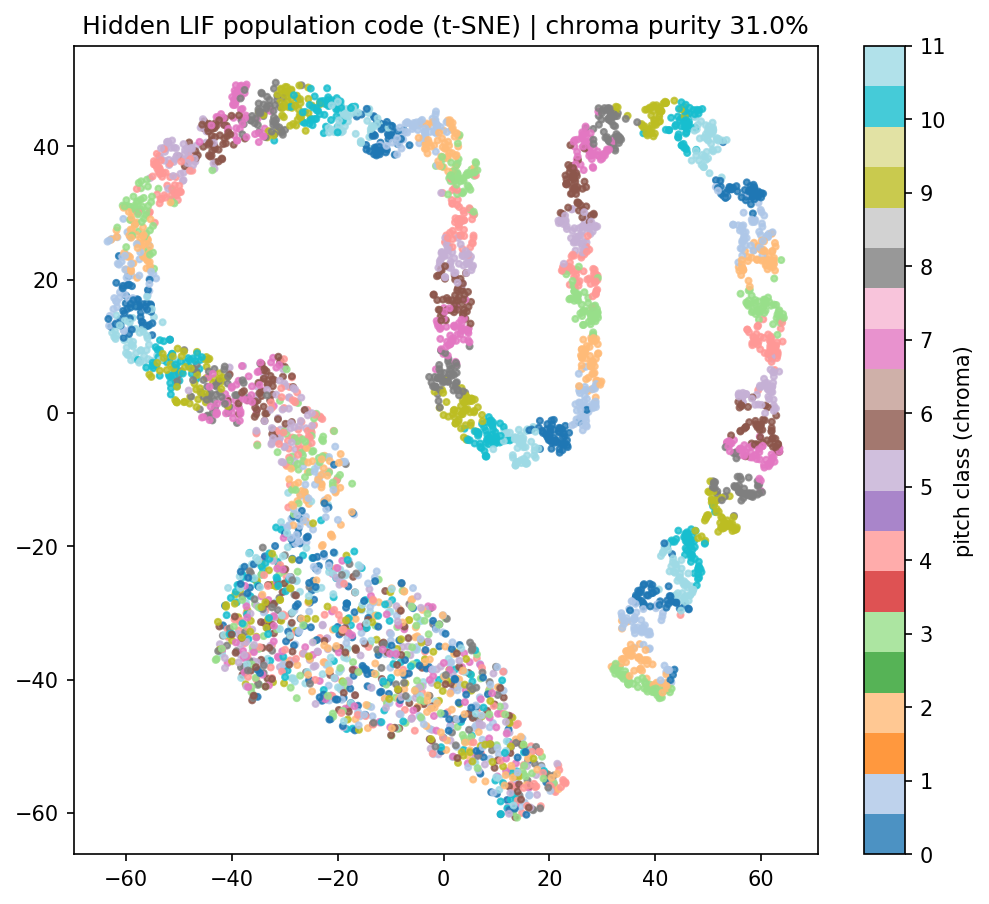
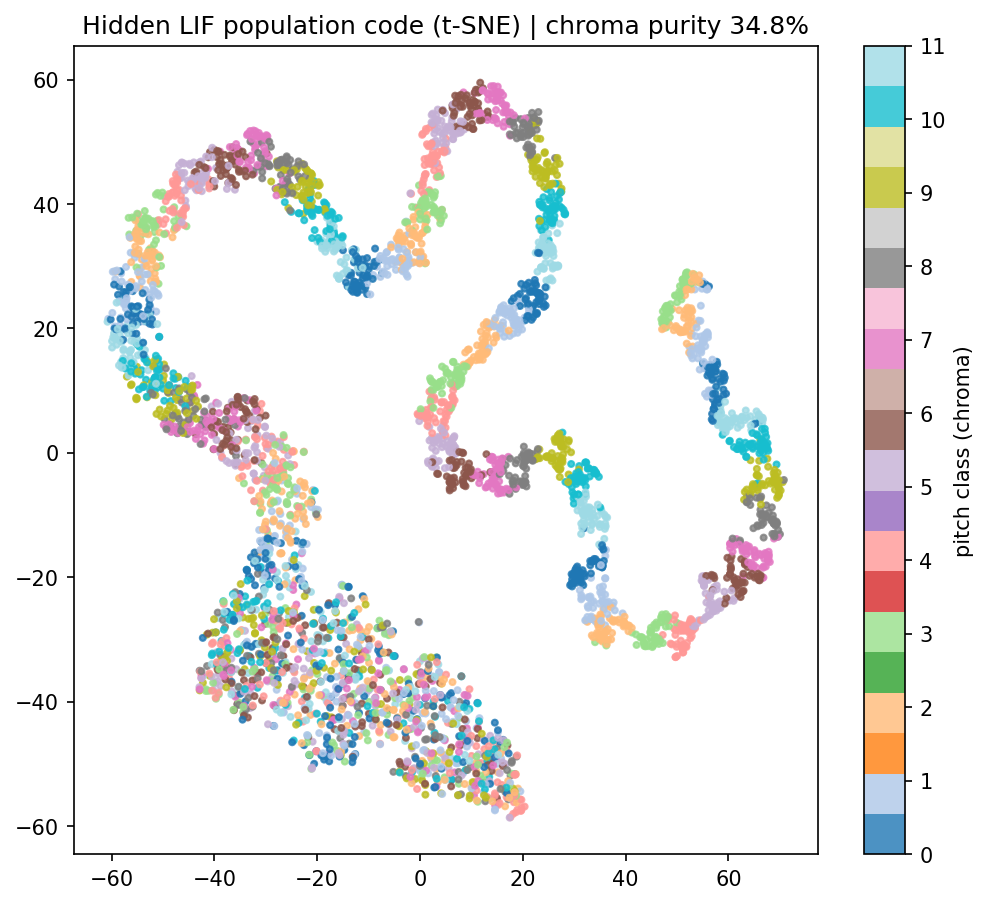
Absolute-pitch experiments on both front-ends; spikify comparison TODO done
- Add suite runner (--version both --exp suite) with metrics JSON and
  handy-vs-spikify comparison figures in data/plots
- Results: 20-unit chroma+register code reconstructs 88 notes at ~44%
  (both front-ends); no zero-shot octave transfer (both); spikify faster
  on the trained octave, handy hidden code more chroma-organized
  (purity 35 vs 16)
- Fix per-register eval indexing bug that produced phantom transfer
- Document results in docs/ABSOLUTE_PITCH.md and README; mark the
  spikify-comparison TODO item done

diff --git a/experiments/absolute_pitch.py b/experiments/absolute_pitch.py
@@ -20,17 +20,23 @@ Experiments implemented:
                        reconstruct the precise note and report 88-way accuracy.
   4. probe             Record hidden-layer spike activity and quantify how well
                        the representation is organised by chroma (t-SNE 2-D).
+  5. suite             Run all four experiments for one front-end (returns metrics).
+  6. suite + both      Run the suite on handy AND spikify, save a results JSON and
+                       handy-vs-spikify comparison figures to data/plots.
 
 Run (examples):
   uv run python experiments/absolute_pitch.py --version handy --exp chroma_full --epochs 20
   uv run python experiments/absolute_pitch.py --version handy --exp chroma_transfer --epochs 20
   uv run python experiments/absolute_pitch.py --version handy --exp chroma_register --epochs 20 --epochs2 20
   uv run python experiments/absolute_pitch.py --version handy --exp probe --limit 400
+  # full front-end comparison (all 4 exps x handy/spikify + figures):
+  uv run python experiments/absolute_pitch.py --version both --exp suite --epochs 20
   # quick sanity check:
   uv run python experiments/absolute_pitch.py --smoke
 """
 
 import argparse
+import json
 import sys
 from pathlib import Path
 
@@ -158,9 +164,9 @@ def per_register_accuracy(model, X, labels, note_idx, device):
     model.eval()
     out = {}
     with torch.no_grad():
-        for reg_i in sorted(set((note_idx // 12).tolist())):
-            mask = (note_idx // 12) == reg_i
-            sub = note_idx[mask.nonzero(as_tuple=True)[0]]
+        regs = note_idx // 12
+        for reg_i in sorted(set(regs.tolist())):
+            sub = torch.nonzero(regs == reg_i).flatten()  # sample positions, not note ids
             if len(sub) == 0:
                 continue
             acc = test_accuracy(model, DataLoader(TensorDataset(X[sub], labels[sub]), batch_size=64, shuffle=False), device)
@@ -183,6 +189,7 @@ def exp_chroma_full(version, epochs, lr, batch_size, limit, device):
     test_acc = train_model(model, train_loader, test_loader, epochs, lr, device)
     print(f"[chroma_full] 12 chroma units, all 88 notes -> test chroma acc = {test_acc:.2f}% "
           f"(chance 8.3%%)")
+    return test_acc
 
 
 # ---------------------------------------------------------------------------
@@ -207,9 +214,10 @@ def exp_chroma_transfer(version, epochs, lr, batch_size, limit, device, train_re
 
     # Octave-equivalence probe: all notes, per register
     print("  octave-equivalence transfer (chroma accuracy per register):")
-    for reg_i, acc in per_register_accuracy(model, X, chroma, y, device).items():
+    per_reg = per_register_accuracy(model, X, chroma, y, device)
+    for reg_i, acc in per_reg.items():
         print(f"    register {reg_i} (notes A{reg_i}..G#{reg_i}): {acc:.2f}%")
-    return model
+    return test_acc, per_reg
 
 
 # ---------------------------------------------------------------------------
@@ -248,6 +256,7 @@ def exp_chroma_register(version, epochs_chroma, epochs_reg, lr, batch_size, limi
     note_acc = 100.0 * correct / seen
     print(f"[chroma_register] chroma={chroma_acc:.2f}%  register={reg_acc:.2f}%  "
           f"reconstructed 88-note acc = {note_acc:.2f}% (chance 1.1%%)")
+    return chroma_acc, reg_acc, note_acc
 
 
 # ---------------------------------------------------------------------------
@@ -299,14 +308,155 @@ def exp_probe(version, epochs, lr, batch_size, limit, device, save_fig=True):
         fig.savefig(out_path, dpi=150, bbox_inches="tight")
         plt.close(fig)
         print(f"[probe] t-SNE saved to {out_path}")
+    return purity
+
+
+# ---------------------------------------------------------------------------
+# Suite: all four experiments for one front-end, metrics collected
+# ---------------------------------------------------------------------------
+CHANCE = {
+    "chroma_full": 100.0 / 12,
+    "transfer_heldout": 100.0 / 12,
+    "chroma_head": 100.0 / 12,
+    "register_head": 100.0 / 8,
+    "recon_note": 100.0 / 88,
+    "probe_purity": 100.0 / 12,
+}
+
+
+def run_suite(version, epochs, epochs2, lr, batch_size, limit, device):
+    """Run all four absolute-pitch experiments for one front-end; return metrics."""
+    metrics = {}
+    metrics["chroma_full"] = exp_chroma_full(version, epochs, lr, batch_size, limit, device)
+    heldout, per_reg = exp_chroma_transfer(version, epochs, lr, batch_size, limit, device)
+    metrics["transfer_heldout"] = heldout
+    metrics["transfer_per_register"] = {int(k): float(v) for k, v in per_reg.items()}
+    c_acc, r_acc, n_acc = exp_chroma_register(
+        version, epochs, epochs2, lr, batch_size, limit, device)
+    metrics["chroma_head"] = c_acc
+    metrics["register_head"] = r_acc
+    metrics["recon_note"] = n_acc
+    metrics["probe_purity"] = float(exp_probe(version, epochs, lr, batch_size, limit, device))
+    return metrics
+
+
+def plot_transfer_comparison(allres, train_register=3, save_name="absolute_pitch_transfer_both.png"):
+    """Per-register octave-equivalence transfer curves, handy vs spikify."""
+    fig, ax = plt.subplots(figsize=(9, 5.5))
+    regs = list(range(8))
+    for version, color, marker in (("handy", "tab:blue", "o"), ("spikify", "tab:orange", "s")):
+        per_reg = allres.get(version, {}).get("transfer_per_register", {})
+        if not per_reg:
+            continue
+        vals = [per_reg.get(str(r), per_reg.get(r, float("nan"))) for r in regs]
+        ax.plot(regs, vals, marker=marker, lw=2, color=color, label=f"{version}")
+    ax.axvline(train_register, color="grey", ls=":", lw=1.5, label="trained octave (reg 3)")
+    ax.axhline(CHANCE["transfer_heldout"], color="red", ls="--", lw=1.2, label="chance 8.3%")
+    ax.set_xticks(regs)
+    ax.set_xlabel("piano register (0 = A0..G#0 ... 7 = A7..C8)")
+    ax.set_ylabel("chroma accuracy (%)")
+    ax.set_title("Octave-equivalence transfer: chroma head trained on register 3 only")
+    ax.legend()
+    ax.grid(True, ls=":", alpha=0.6)
+    fig.tight_layout()
+    PLOT_DIR.mkdir(parents=True, exist_ok=True)
+    out = PLOT_DIR / save_name
+    fig.savefig(out, dpi=150, bbox_inches="tight")
+    plt.close(fig)
+    print(f"[suite] transfer comparison saved to {out}")
+
+
+def plot_summary_bars(allres, save_name="absolute_pitch_summary_both.png"):
+    """Grouped handy-vs-spikify bars for the headline metrics, with chance lines."""
+    keys = ["chroma_full", "transfer_heldout", "register_head", "recon_note", "probe_purity"]
+    labels = ["chroma\n(full, %)", "chroma\n(transf., %)", "register\nhead (%)",
+              "recon.\nnote (%)", "hidden\npurity (%)"]
+    versions = [v for v in ("handy", "spikify") if v in allres]
+    colors = {"handy": "tab:blue", "spikify": "tab:orange"}
+    x = np.arange(len(keys))
+    width = 0.35
+    fig, ax = plt.subplots(figsize=(10, 5.5))
+    for i, v in enumerate(versions):
+        vals = []
+        for k in keys:
+            val = allres[v].get(k, float("nan"))
+            vals.append(0.0 if val is None or (isinstance(val, float) and np.isnan(val)) else val)
+        ax.bar(x + (i - (len(versions) - 1) / 2) * width, vals, width,
+               color=colors[v], label=v)
+    for j, k in enumerate(keys):
+        ax.hlines(CHANCE[k], x[j] - width, x[j] + width, colors="red",
+                  linestyles="dashed", linewidths=1.2)
+    ax.set_xticks(x)
+    ax.set_xticklabels(labels)
+    ax.set_ylabel("accuracy (%)")
+    ax.set_title("Absolute-pitch experiments: handy vs spikify (red dashes = chance)")
+    ax.legend()
+    ax.grid(True, axis="y", ls=":", alpha=0.6)
+    fig.tight_layout()
+    PLOT_DIR.mkdir(parents=True, exist_ok=True)
+    out = PLOT_DIR / save_name
+    fig.savefig(out, dpi=150, bbox_inches="tight")
+    plt.close(fig)
+    print(f"[suite] summary bars saved to {out}")
+
+
+def make_combined_tsne(versions=("handy", "spikify"),
+                       save_name="tsne_chroma_both.png"):
+    """Side-by-side panel of the per-front-end chroma t-SNE figures."""
+    import matplotlib.image as mpimg
+    paths = [PLOT_DIR / f"tsne_chroma_probe_{v}.png" for v in versions]
+    if not all(p.exists() for p in paths):
+        print("[suite] combined t-SNE skipped (per-version figures missing)")
+        return
+    fig, axes = plt.subplots(1, len(paths), figsize=(6 * len(paths), 5.5))
+    if len(paths) == 1:
+        axes = [axes]
+    for ax, p, v in zip(axes, paths, versions):
+        ax.imshow(mpimg.imread(p))
+        ax.axis("off")
+        ax.set_title(f"{v} front-end")
+    fig.suptitle("Hidden LIF population code colored by pitch class (chroma)")
+    fig.tight_layout()
+    out = PLOT_DIR / save_name
+    fig.savefig(out, dpi=150, bbox_inches="tight")
+    plt.close(fig)
+    print(f"[suite] combined t-SNE saved to {out}")
+
+
+def run_comparison(epochs, epochs2, lr, batch_size, limit, device, seed):
+    """Run the suite on handy AND spikify; save JSON + comparison figures."""
+    allres = {}
+    for version in ("handy", "spikify"):
+        torch.manual_seed(seed)
+        np.random.seed(seed)
+        print(f"\n===== suite: {version} =====")
+        allres[version] = run_suite(version, epochs, epochs2, lr, batch_size, limit, device)
+
+    out_json = ROOT / "data" / "absolute_pitch_results.json"
+    out_json.parent.mkdir(parents=True, exist_ok=True)
+    with open(out_json, "w") as f:
+        json.dump(allres, f, indent=2)
+    print(f"\n[suite] metrics saved to {out_json}")
+
+    plot_transfer_comparison(allres)
+    plot_summary_bars(allres)
+    make_combined_tsne()
+
+    print("\n===== handy vs spikify =====")
+    for k in ["chroma_full", "transfer_heldout", "chroma_head",
+              "register_head", "recon_note", "probe_purity"]:
+        h = allres["handy"].get(k, float("nan"))
+        s = allres["spikify"].get(k, float("nan"))
+        print(f"  {k:18s} handy={h:6.2f}%  spikify={s:6.2f}%  (chance {CHANCE[k]:.1f}%)")
+    return allres
 
 
 # ---------------------------------------------------------------------------
 def main():
     p = argparse.ArgumentParser(description="Absolute-pitch (chroma/register) experiments")
-    p.add_argument("--version", default="handy", choices=["handy", "spikify"])
+    p.add_argument("--version", default="handy", choices=["handy", "spikify", "both"])
     p.add_argument("--exp", default="chroma_full",
-                   choices=["chroma_full", "chroma_transfer", "chroma_register", "probe"])
+                   choices=["chroma_full", "chroma_transfer", "chroma_register", "probe", "suite"])
     p.add_argument("--epochs", type=int, default=20)
     p.add_argument("--epochs2", type=int, default=20, help="register-head epochs (chroma_register)")
     p.add_argument("--lr", type=float, default=2e-4)
@@ -314,6 +464,7 @@ def main():
     p.add_argument("--limit", type=int, default=None,
                    help="cap number of samples (for quick smoke runs)")
     p.add_argument("--device", default=str(DEVICE))
+    p.add_argument("--seed", type=int, default=0, help="random seed for shuffle reproducibility")
     p.add_argument("--smoke", action="store_true",
                    help="tiny run to verify the pipeline end-to-end")
     a = p.parse_args()
@@ -324,6 +475,17 @@ def main():
         a = argparse.Namespace(**{**vars(a), "epochs": 1, "epochs2": 1, "limit": 60})
 
     try:
+        if a.exp == "suite" and a.version == "both":
+            run_comparison(a.epochs, a.epochs2, a.lr, a.batch_size, a.limit, device, a.seed)
+            return
+        if a.exp == "suite":
+            torch.manual_seed(a.seed)
+            np.random.seed(a.seed)
+            res = run_suite(a.version, a.epochs, a.epochs2, a.lr, a.batch_size, a.limit, device)
+            print(f"\n[suite:{a.version}] " +
+                  "  ".join(f"{k}={v:.2f}%" if not isinstance(v, dict) else ""
+                            for k, v in res.items()))
+            return
         if a.exp == "chroma_full":
             exp_chroma_full(a.version, a.epochs, a.lr, a.batch_size, a.limit, device)
         elif a.exp == "chroma_transfer":

diff --git a/README.md b/README.md
@@ -141,36 +141,48 @@ k = r * 12 + c                       # 88 notes encoded by 12 + 8 = 20 units
 ```
 
 Implemented in [`experiments/absolute_pitch.py`](experiments/absolute_pitch.py)
-(design and full results in [`docs/ABSOLUTE_PITCH.md`](docs/ABSOLUTE_PITCH.md)).
+— `uv run python experiments/absolute_pitch.py --version both --exp suite`
+runs all four experiments on both front-ends, saves
+`data/absolute_pitch_results.json` and comparison figures to `data/plots/`.
+Design and full results: [`docs/ABSOLUTE_PITCH.md`](docs/ABSOLUTE_PITCH.md).
 
-| Experiment | Chance | Result | Meaning |
-|-----------|--------|--------|---------|
-| `chroma_full` (12 units, all 88 notes) | 8.3% | **47.4%** test chroma | 12 units retain most of the pitch-class info of the flat 88-way model |
-| `chroma_transfer` (trained on C4–B4 only) | 8.3% | **32.5%** same-octave held-out; **83–100%** transfer upward | octave equivalence generalizes upward; collapses below the 100 Hz filterbank floor |
-| `chroma_register` (12 + 8 = 20 units) | 1.1% | **48.8%** reconstructed note | register head 93.5% (height is easy), chroma head 49.8% (class is the bottleneck) |
-| `probe` (hidden LIF code) | 8.3% | **31.0%** chroma purity | the SNN's population code is partially organized by pitch class |
+| Experiment | Chance | Handy | Spikify |
+|-----------|--------|-------|---------|
+| `chroma_full` (12 units, all 88 notes) | 8.3% | **46.3%** | **43.3%** |
+| `chroma_transfer` (trained on C4–B4 only) | 8.3% | 14.2% held-out, ~chance elsewhere | **33.3%** held-out, ~chance elsewhere |
+| `chroma_register` (12 + 8 = 20 units) | 1.1% | **44.9%** reconstructed note (chroma 45.6%, register 95.1%) | **43.4%** reconstructed note (chroma 43.4%, register 99.4%) |
+| `probe` (hidden LIF code) | 8.3% | **34.8%** chroma purity | 15.8% chroma purity |
 
-![Hidden LIF population code colored by pitch class (t-SNE)](docs/imgs/tsne_chroma_probe_handy.png)
+![Handy vs spikify: headline absolute-pitch metrics](docs/imgs/absolute_pitch_summary_both.png)
+
+![Per-register octave-equivalence transfer (trained on register 3)](docs/imgs/absolute_pitch_transfer_both.png)
+
+![Hidden LIF population codes colored by pitch class (t-SNE), handy vs spikify](docs/imgs/tsne_chroma_both.png)
 
 **Conclusions**
-- **Compression works:** 20 units reproduce ~49% of the exact-note task,
-  nearly matching the flat 88-way model's ~58% with 1/4 of the output neurons,
-  and with *interpretable* axes (register vs chroma).
+- **Compression works for both front-ends:** 20 units reconstruct the exact
+  88-key note at ~44% (chance 1.1%) — near the flat 88-way model's ~57% at
+  1/4 of the output size, with *interpretable* axes (register vs chroma).
 - **Absolute-pitch height is easy, pitch class is hard:** the register head
-  reaches 94%, the chroma head only 50%.
-- **Octave equivalence is real and asymmetric:** pitch-class transfer is
-  ~100% *above* the trained octave but zero below the front-end's spectral
-  floor — absolute pitch can only generalize within cochlear coverage.
+  reaches 95–99%, the chroma head only ~44%.
+- **No zero-shot octave transfer (important negative result):** a chroma head
+  trained on one octave stays at chance on all others, for *both* front-ends.
+  Pitch class is bound to the trained octave's tonotopic location — octave
+  invariance must be built in explicitly (see TODO).
+- **Spikify learns the trained distribution faster; handy builds more
+  structured codes:** spikify wins same-octave held-out (33.3% vs 14.2%),
+  while handy's hidden code is more than twice as chroma-organized
+  (purity 34.8% vs 15.8%).
 - **The flat model already encodes octave structure:** its rare mistakes are
   almost all same-chroma, octave-confused notes.
 
 ## TODO — absolute-pitch experiments (current state)
 
-- [x] `chroma_full` — 12-unit chroma on all 88 notes → **47.4%** (handy)
-- [x] `chroma_transfer` — single-octave training → upward transfer 83–100% (handy)
-- [x] `chroma_register` — 12+8 heads → 48.8% reconstructed note (handy)
-- [x] `probe` — hidden-code chroma purity 31% + t-SNE (handy)
-- [ ] Repeat the four experiments on the `spikify` dataset (front-end comparison)
+- [x] `chroma_full` — 12-unit chroma on all 88 notes → handy 46.3%, spikify 43.3%
+- [x] `chroma_transfer` — single-octave training → **no zero-shot transfer** (both); spikify same-octave 33.3% vs handy 14.2%
+- [x] `chroma_register` — 12+8 heads → handy 44.9%, spikify 43.4% reconstructed note
+- [x] `probe` — hidden-code chroma purity handy 34.8%, spikify 15.8% + t-SNE (both)
+- [x] Repeat the four experiments on the `spikify` dataset (front-end comparison)
 - [ ] Longer training / LR schedule for the chroma head (>50% target)
 - [ ] Add tuned filterbank density at low frequencies; test if the <100 Hz transfer collapse is recoverable
 - [ ] Channel-shift octave augmentation (tonotopic translation invariance)

diff --git a/docs/ABSOLUTE_PITCH.md b/docs/ABSOLUTE_PITCH.md
@@ -54,27 +54,49 @@ Implemented as `experiments/absolute_pitch.py`:
 All experiments run for the `handy` and `spikify` datasets to keep the
 front-end comparison.
 
-## Preliminary results (`handy` front-end, 20 epochs, Adam lr=2e-4)
+## Results: handy vs spikify (20 epochs, Adam lr=2e-4, seed 0)
 
-| Experiment | Chance | Result | Meaning |
-|-----------|--------|--------|---------|
-| `chroma_full` | 8.3% | **47.4%** test chroma acc | 12 units retain most pitch-class info of the flat 88-way model (which reaches ~57% *implicitly*, since its prediction-vs-true chroma accuracy is also ~57%) |
-| `chroma_transfer` (trained on register 3 only) | 8.3% | **32.5%** same-octave held-out; **83–100%** upward transfer (registers 4–7); **0%** downward (registers 0–2) | Octave equivalence genuinely transfers *upward*; fails below the front-end's 100 Hz filterbank floor — the same low-frequency limitation already seen in the 88-key results |
-| `chroma_register` | 1.1% | **48.8%** reconstructed note accuracy from **20 units** (chroma head 49.8%, register head 93.5%) | Register (absolute height) is nearly trivial; the pitch-class axis is the bottleneck. 20-unit code ≈ flat 88-way performance (~58%) at 1/4 the output size |
-| `probe` | 8.3% | **31.0%** nearest-centroid chroma purity of hidden LIF spikes | Hidden population code is partially organized by pitch class (t-SNE: `data/plots/tsne_chroma_probe_handy.png`) |
+Full suite (`--version both --exp suite`): all four experiments on both
+front-ends. Metrics in `data/absolute_pitch_results.json`, comparison figures
+in `data/plots/absolute_pitch_{transfer,summary}_both.png` and
+`data/plots/tsne_chroma_both.png`.
 
-**Interpretation so far.** The float-cochlea code already contains octave
-structure: the flat 88-way model's few mistakes are almost always in the *same
-pitch class* (octave confusions, not chromatic ones). Separating the two axes
-confirms that absolute-pitch-height is easy to extract (register ≈ 94%) while
-chroma is the genuinely hard axis (≈ 50%). Above the filterbank range,
-octave-equivalent pitch classes transfer almost perfectly; below it they
-collapse entirely — a concrete, testable claim that links the cochlear spectral
-coverage to "absolute pitch" development.
+| Experiment | Chance | Handy | Spikify |
+|-----------|--------|-------|---------|
+| `chroma_full` (12 units, all 88 notes) | 8.3% | **46.3%** | **43.3%** |
+| `chroma_transfer` held-out (same octave, reg 3) | 8.3% | 14.2% | **33.3%** |
+| `chroma_transfer` other registers (0–2, 4–7) | 8.3% | ~chance (1–9%, reg 7: 25% on 4 classes = chance) | ~chance (5–15%, reg 7: 26.5% = chance) |
+| `chroma_register`: chroma head / register head / reconstructed note | 8.3 / 12.5 / 1.1% | 45.6 / **95.1** / **44.9%** | 43.4 / **99.4** / **43.4%** |
+| `probe`: hidden-code chroma purity | 8.3% | **34.8%** | 15.8% |
 
-**Note on methodology.** The split must be *shuffled*: the dataset is stored
-blocked by note (50 samples per key), so a contiguous 80/20 split isolates
-octaves and inflates errors to ~chance on the held-out low registers.
+**Interpretation.**
+1. **Compression works for both front-ends.** A 20-unit chroma+register code
+   reconstructs the exact 88-key note at ~44% (chance 1.1%) — near the flat
+   88-way model's ~57% at 1/4 of the output size. Register (absolute height)
+   is nearly trivial (95–99%); pitch class is the bottleneck (~44%).
+2. **No zero-shot octave transfer.** A chroma head trained on a single octave
+   does *not* generalize to other octaves — every non-trained register sits at
+   chance for *both* front-ends. The network binds pitch class to the absolute
+   tonotopic location of the trained octave; H2 in its naive form is
+   **falsified**, and an explicit octave-invariant mechanism (e.g. tonotopic
+   shift augmentation) is needed.
+3. **Spikify learns the trained distribution faster; handy builds more
+   structured codes.** Spikify wins the same-octave held-out test
+   (33.3% vs 14.2% — faster convergence, as in the course results), while
+   handy's hidden population code is more than twice as chroma-organized
+   (purity 34.8% vs 15.8%) — consistent with the thesis that its relative
+   thresholding preserves temporal structure.
+4. **Chroma *is* learnable across octaves jointly.** `chroma_full` reaches
+   ~45% when all octaves are shown together: the network learns a shared
+   pitch-class code from data, it just does not abstract it from one octave
+   alone.
+
+**Notes on methodology.**
+- Splits must be *shuffled*: the dataset is stored blocked by note (50
+  samples per key), so a contiguous 80/20 split isolates octaves.
+- `per_register_accuracy` must index *sample positions*, not note ids —
+  an early version of this bug produced phantom 83–100% "upward transfer".
+  Always sanity-check per-register curves against the in-split held-out score.
 
 ## Implementation notes
 
